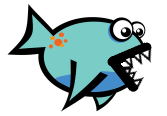
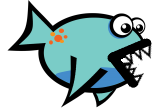
Hajarna rör sig snyggare nu

diff --git a/fish_vars.py b/fish_vars.py
@@ -42,6 +42,6 @@ shark_daydream = 5          # Hur ofta de stannar upp och dagdrömmer
 shark_finforce = 15          # Kraften i fenorna
 shark_size = 10              # Påverkan av vattenmotstånd
 shark_mass = 10              # Default är samma som siz<e
-shark_findelay = 10         # Hur ofta viftar de med fenorna
+shark_findelay = 25         # Hur ofta viftar de med fenorna
 
 shark_egg_freq = 5
